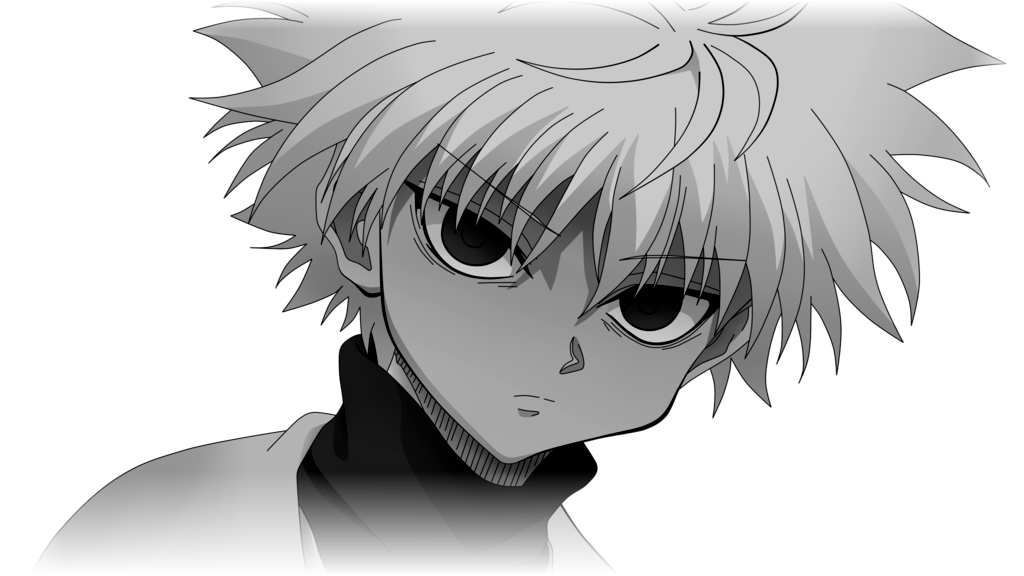
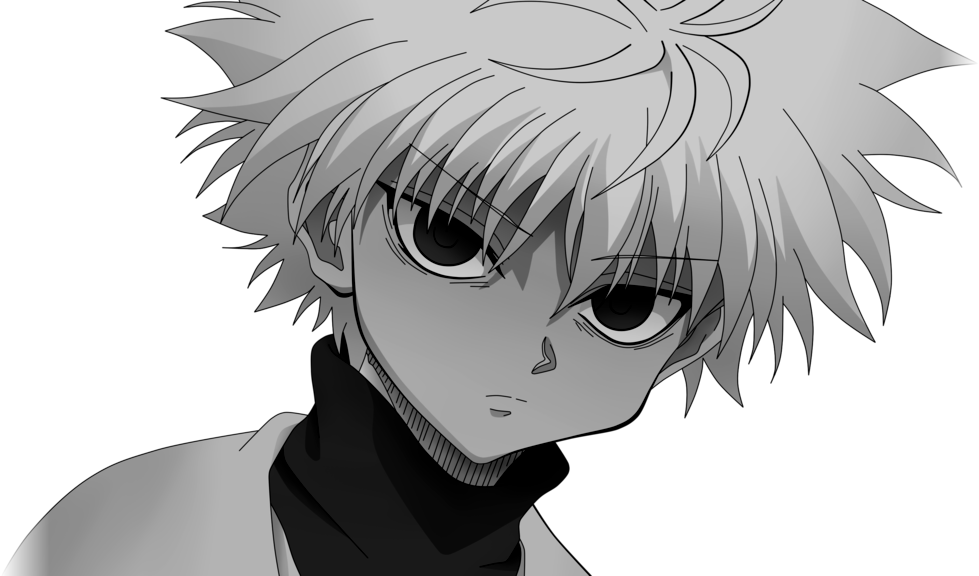
Killua: fill About panel edge to edge
Claude-Session: https://claude.ai/code/session_01VDzTi7BFKMexGA6PT8XKHZ

diff --git a/index.html b/index.html
@@ -9,10 +9,10 @@
   <meta property="og:title" content="TONI — Roblox Dev">
   <meta property="og:description" content="Fullstack Roblox programmer — combat systems, skills, UI, VFX and backend.">
   <meta property="og:url" content="https://wokealot.github.io/">
-  <meta property="og:image" content="https://wokealot.github.io/assets/og.png?v=1792697211">
+  <meta property="og:image" content="https://wokealot.github.io/assets/og.png?v=1792697362">
   <meta name="twitter:card" content="summary_large_image">
-  <meta name="twitter:image" content="https://wokealot.github.io/assets/og.png?v=1792697211">
-  <link rel="preload" as="image" href="assets/hero-figure.png?v=1792697211">
+  <meta name="twitter:image" content="https://wokealot.github.io/assets/og.png?v=1792697362">
+  <link rel="preload" as="image" href="assets/hero-figure.png?v=1792697362">
   <link rel="icon" type="image/png" sizes="32x32" href="assets/cloud-32.png">
   <link rel="icon" type="image/png" sizes="64x64" href="assets/cloud-64.png">
   <link rel="shortcut icon" href="favicon.png">
@@ -20,13 +20,13 @@
   <link rel="preconnect" href="https://fonts.googleapis.com">
   <link rel="preconnect" href="https://fonts.gstatic.com" crossorigin>
   <link href="https://fonts.googleapis.com/css2?family=Cormorant+Garamond:wght@400;500;600&family=Shippori+Mincho:wght@400;600&family=Inter:wght@400;500&display=swap" rel="stylesheet">
-  <link rel="stylesheet" href="styles.css?v=1792697211">
+  <link rel="stylesheet" href="styles.css?v=1792697362">
 </head>
 <body>
   <div class="texture" aria-hidden="true"></div>
 
   <header class="nav"><span class="progress" id="progress"></span>
-    <a class="brand" href="#home"><img class="brand-logo" src="assets/logo.png?v=1792697211" alt=""><span class="brand-name" data-cfg="name"></span></a>
+    <a class="brand" href="#home"><img class="brand-logo" src="assets/logo.png?v=1792697362" alt=""><span class="brand-name" data-cfg="name"></span></a>
     <button class="nav-toggle" aria-label="Menu" aria-expanded="false"><span></span><span></span></button>
     <nav class="nav-links">
       <a href="#home" class="is-active">Home</a>
@@ -142,7 +142,7 @@
   </div>
   <div class="toast" id="toast" role="status"></div>
 
-  <script src="config.js?v=1792697211"></script>
-  <script src="app.js?v=1792697211"></script>
+  <script src="config.js?v=1792697362"></script>
+  <script src="app.js?v=1792697362"></script>
 </body>
 </html>

diff --git a/styles.css b/styles.css
@@ -44,7 +44,7 @@ a:hover .arrow, button:hover .arrow { transform: translateX(4px); }
 .art-hero { left: 34%; right: 0; -webkit-mask: linear-gradient(90deg, transparent, #000 18%, #000 88%, transparent), linear-gradient(180deg, transparent, #000 22%, #000 80%, transparent); -webkit-mask-composite: source-in; mask: linear-gradient(90deg, transparent, #000 18%, #000 88%, transparent), linear-gradient(180deg, transparent, #000 22%, #000 80%, transparent); mask-composite: intersect; background-position: center top; }
 .art-figure { top: 6%; bottom: 0; left: 52%; right: 13%; background-repeat: no-repeat; z-index: 1; -webkit-mask: linear-gradient(180deg, #000 70%, transparent); mask: linear-gradient(180deg, #000 70%, transparent); }
 .art-figure::after { display: none; }
-.art-figure-about { top: 0; bottom: 0; left: 34%; right: 12%; -webkit-mask: linear-gradient(180deg, #000 55%, transparent 92%); mask: linear-gradient(180deg, #000 55%, transparent 92%); }
+.art-figure-about { top: -6%; bottom: -6%; left: 34%; right: 12%; -webkit-mask: linear-gradient(180deg, transparent, #000 10%, #000 70%, transparent 96%); mask: linear-gradient(180deg, transparent, #000 10%, #000 70%, transparent 96%); }
 .art-figure-skills { top: 0; bottom: -10%; left: 40%; right: -10%; -webkit-mask: linear-gradient(90deg, transparent, #000 30%), linear-gradient(180deg, #000 60%, transparent); -webkit-mask-composite: source-in; mask: linear-gradient(90deg, transparent, #000 30%), linear-gradient(180deg, #000 60%, transparent); mask-composite: intersect; }
 .art-figure-projects { top: 0; bottom: 0; left: 0; right: 66%; -webkit-mask: linear-gradient(90deg, #000 55%, transparent); mask: linear-gradient(90deg, #000 55%, transparent); }
 .art-figure-projects-b { top: 10%; bottom: 0; left: 80%; right: -4%; -webkit-mask: linear-gradient(90deg, transparent, #000 30%), linear-gradient(180deg, #000 60%, transparent); -webkit-mask-composite: source-in; mask: linear-gradient(90deg, transparent, #000 30%), linear-gradient(180deg, #000 60%, transparent); mask-composite: intersect; }

diff --git a/config.js b/config.js
@@ -3,7 +3,7 @@
 //  Change text, links, projects, images, colors here.
 // ============================================================
 window.SITE_CONFIG = {
-  version: "1792697211",                        // bump this whenever you change assets so browsers refetch them
+  version: "1792697362",                        // bump this whenever you change assets so browsers refetch them
   name: "TONI",                      // the big name everywhere (hero, nav, footer)
   realName: "Toni (ant)",             // used in About; set "" to use `name`
   siteTitle: "TONI — Roblox Dev",
